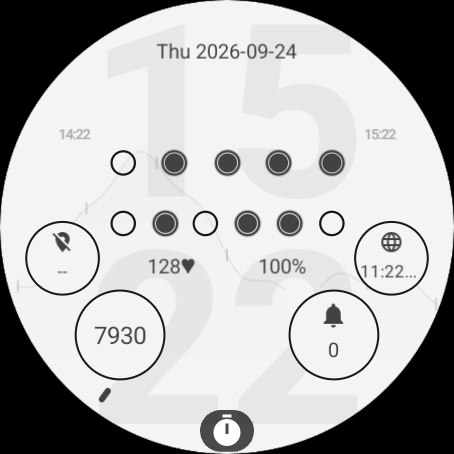
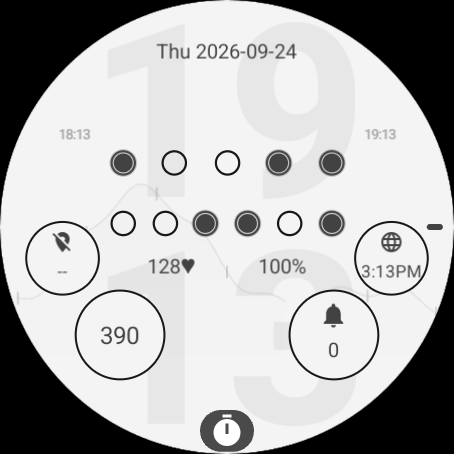
fix(history): update background graph placement

diff --git a/history/src/main/java/dev/j256/binarywatchface/history/GraphRenderer.java b/history/src/main/java/dev/j256/binarywatchface/history/GraphRenderer.java
@@ -20,7 +20,7 @@ public final class GraphRenderer {
     public static final int HEIGHT = 364;
     public static final int BACKGROUND_WIDTH = 450;
     public static final int BACKGROUND_HEIGHT = 300;
-    private static final float BACKGROUND_PLOT_TOP = 40;
+    private static final float BACKGROUND_PLOT_TOP = 80;
     private static final float BACKGROUND_PLOT_BOTTOM = BACKGROUND_HEIGHT;
     private static final int BACKGROUND_PLOT_ALPHA = 64;
     private static final float MARK_HALF_LENGTH = 5.5f;

diff --git a/docs/design-considerations.md b/docs/design-considerations.md
@@ -10,7 +10,7 @@ Keep the decimal backdrop subordinate through its independent appearance control
 
 The optional heart-history background follows the same hierarchy. Its wide, dim trace and faint area fill sit behind the clock, decimal backdrop, native readouts, and opaque complication backgrounds. Keep the trace's opacity uniform across the time window so edge fading cannot obscure its beginning or end. The fill may fade vertically beneath the trace. Hide labels by default and keep any optional caption above the bit weights. Retain stale and empty-data notices; identify invented readings in the companion app and review captions. Preserve the decimal backdrop's independent visibility and appearance controls when history is enabled: its numbers provide a quick alternative to reading binary. Hide the graph in AOD while honoring the selected decimal visibility. The image slot must remain outside the system-indicator reserve. Tapping exposed history content opens Binary Heart History for touch inspection and settings. Verify ordinary provider actions at every slot position whenever changing the overlapping background or its tap action. Static checks enforce foreground layer order and system clearance, but cannot prove touch routing. Graph visibility shares the Layout & brightness selector with provider count so Wear OS has only one setting controlling complication-slot enablement. See the [prototype guide](heart-rate-prototype.md) for rendered examples and the separate on-watch recorder.
 
-Default Binary Pulse to the subtle history layout. Place the plot slightly below the image's vertical center to use the lower gap, while keeping the image bounds outside the system reserve and the side captions in their clock gutters. Keep the trace very faint, its optional time marks only slightly brighter, and the side timestamps brighter still while remaining subordinate to the clock and native readouts. Faint reduces the graph's opacity further; Clear increases it for users who need more contrast. Labels stay off by default; tapping the background provides timestamps and precise inspection in the companion app.
+Default Binary Pulse to the subtle history layout. Bias the plot toward the lower half of the image to use the gap below the binary rows. Keep its lower edge and image bounds above the system reserve, and retain the side captions in their clock gutters. Keep the trace very faint, its optional time marks only slightly brighter, and the side timestamps brighter still while remaining subordinate to the clock and native readouts. Faint reduces the graph's opacity further; Clear increases it for users who need more contrast. Labels stay off by default; tapping the background provides timestamps and precise inspection in the companion app.
 
 Optional time marks are vertical ticks, dots, or upright triangles centered on the heart-history trace, without a conventional axis or grid. Keep ticks vertical and triangles upright as the trace rises and falls. None hides all marks without affecting labels. Preserve gaps and use equal elapsed intervals so a wearer can count inward from the two side times. Control the marks separately from the side labels so the timestamps remain readable at native watch size. Keep the side times in the outer margins beside the hour row, clear of the moving bezel tick, round screen edge, and every provider layout. Only the optional range and status notices use the caption area beneath the date.
 
